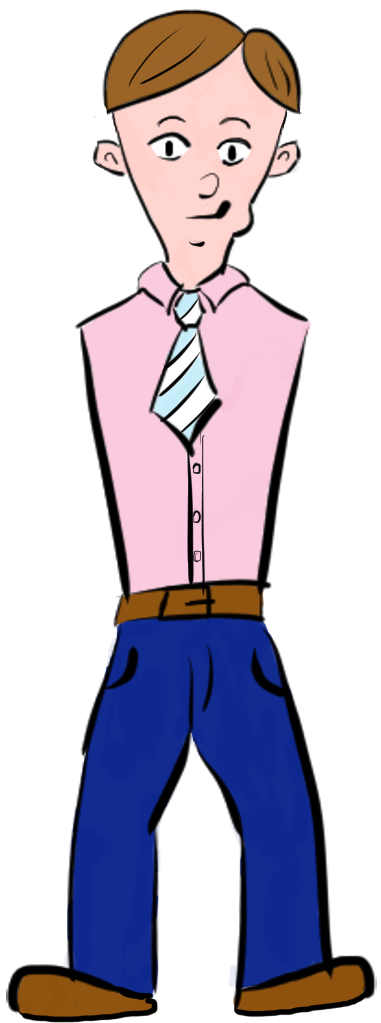
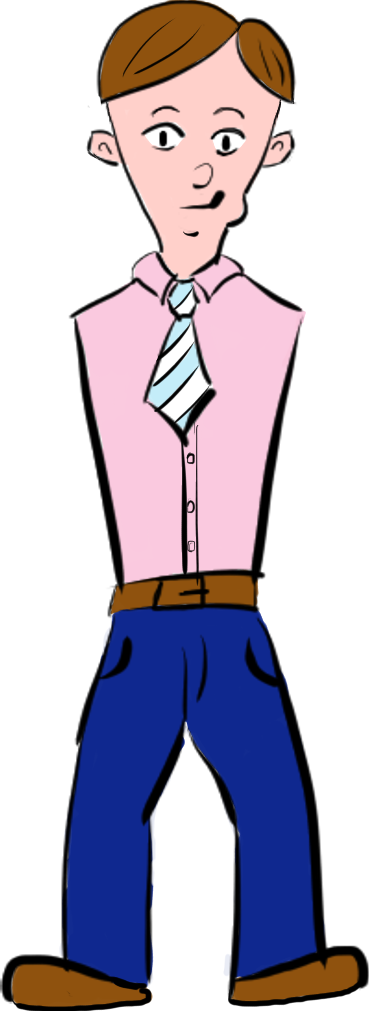
Worked on the images

Changed region(s): [[0.0, 0.0, 1.0, 1.0]]

diff --git a/head.py b/head.py
@@ -1,23 +1,56 @@
 import pygame as pg
 from vars import *
 
-class Head(pg.sprite.Sprite):
+SLIM, MEDIUM, FAT = 1, 2, 3
 
+class Head(pg.sprite.Sprite):
+    
     def __init__(self, _position, _size, _radius):
         pg.sprite.Sprite.__init__(self)
 
         self.rect = pg.Rect(*_position, _size, _size)
         self.radius = _radius
-        #        self.image = pg.transform.scale(pg.image.load("./imgs/circle.png"), (50, 50))
-        self.image = pg.image.load("./imgs/body_slim_mouth_open.png")
 
+        # Load image files
+        self.image_open = pg.transform.scale(pg.image.load("./imgs/body_slim_mouth_open.png"), (BODY_WIDTH, BODY_HEIGHT))
+        self.image_closed = pg.transform.scale(pg.image.load("./imgs/body_slim_mouth_closed.png"), (BODY_WIDTH, BODY_HEIGHT))
+        self.level = SLIM
+
+        self.image = self.image_open
+        self.rect.height = self.image.get_height()
+        self.rect.width = self.image.get_width()
+
+
+    def become_medium(self):
+        self.image_open = pg.image.load("./imgs/body_medium_mouth_open.png")
+        self.image_closed = pg.image.load("./imgs/body_medium_mouth_closed.png")
+        self.level = MEDIUM
+
+    def become_fat(self):
+        self.image_open = pg.image.load("./imgs/body_fat_mouth_open.png")
+        self.image_closed = pg.image.load("./imgs/body_fat_mouth_closed.png")
+        self.level = FAT
+        
     def update(self):
         list = pg.sprite.spritecollide(self, FOOD_LIST, False, pg.sprite.collide_circle)
-        if list != []:
-            for food in list:
-                if food.grabbed or food.caught:
-                    food.be_eaten()
-                    self.eat()
+        for food in list:
+            if food.grabbed or food.caught:
+                food.be_eaten()
+                self.close_mouth()
+        
+        if self.image == self.image_closed:
+            if self.closed_time <= MAX_TIME:
+                self.closed_time += 1
+            else:
+                self.closed_time = 0
+                self.open_mouth()
+                    
+    def open_mouth(self):
+        self.image = self.image_open
+        
+    def close_mouth(self):
+        print("CROUNCH")
+        self.image = self.image_closed
+        self.closed_time = 0
 
-    def eat(self):
-        print("Miam !")
+

diff --git a/hand.py b/hand.py
@@ -1,3 +1,4 @@
+
 import pygame as pg
 from math import hypot, sqrt
 from vars import *
@@ -49,15 +50,26 @@ class Hand(pg.sprite.Sprite):
         self.target = min_food
 
     def set_boundaries(self):
-        self.top_boundary = self.head.rect.centery - 100
+        self.top_boundary = self.head.rect.centery - 250
         self.bottom_boundary = self.head.rect.centery + 100
         if self.is_left:
             self.right_boundary = self.head.rect.centerx
-            self.left_boundary = self.right_boundary - 100
+            self.left_boundary = self.right_boundary - 150
         else:
             self.left_boundary = self.head.rect.centerx
-            self.right_boundary = self.left_boundary + 100
-        
+            self.right_boundary = self.left_boundary + 150
+
+    def default_position(self):
+        if self.is_left:
+            def_x = self.head.rect.centerx - SCREEN_WIDTH//8
+        else:
+            def_x = self.head.rect.centerx + SCREEN_WIDTH//8
+        def_y = self.head.rect.centery + 10
+        ret = pg.sprite.Sprite()
+        ret.rect = pg.rect.Rect(def_x, def_y, 1, 1)
+        ret.rect.center = (def_x, def_y)
+        return ret 
+            
     def move_by(self, dx, dy):
         new_x = self.rect.centerx + dx
         new_y = self.rect.centery + dy
@@ -90,16 +102,6 @@ class Hand(pg.sprite.Sprite):
         dy *= coeff
         self.move_by(dx, dy)
 
-    def default_position(self):
-        if self.is_left:
-            def_x = self.head.rect.centerx - 50
-        else:
-            def_x = self.head.rect.centerx + 50
-        def_y = self.head.rect.centery + 150
-        ret = pg.sprite.Sprite()
-        ret.rect = pg.rect.Rect(def_x, def_y, 1, 1)
-        return ret            
-
     def update(self):
         if self.mode == FOLLOWING:
             if self.target.alive(): # condition to keep following this target
@@ -113,7 +115,6 @@ class Hand(pg.sprite.Sprite):
                 self.mode = HUNTING
         elif self.mode == EATING:
             if pg.sprite.collide_circle(self, self.head):
-                FOOD_LIST.remove(self.target)
                 self.target = None
                 self.mode = HUNTING
             else:

diff --git a/vars.py b/vars.py
@@ -25,16 +25,19 @@ MEM_MOUSE_EVENT_TIME = 100
 GRAVITY = pg.math.Vector2(0, 0.3)
 GRAB_DISTANCE = 100
 HAND_SPEED = 10
+MAX_TIME = FRAMERATE * 1
 
 # GEOMETRICAL
 HEAD_SIZE = 60
 HEAD_RADIUS = 10
 HAND_SIZE = SCREEN_HEIGHT//8
-HAND_RADIUS = 10
+HAND_RADIUS = HAND_SIZE//2
 #ARM_LENGTH = 80
 FOOD_SIZE = 50
 FOOD_RADIUS = 10
 
+BODY_WIDTH = 175
+BODY_HEIGHT = 500
 # MOUSE_WIDTH = 630
 # MOUSE_HEIGHT = 832
 # MOUSE_START_X = SCREEN_WIDTH//2
